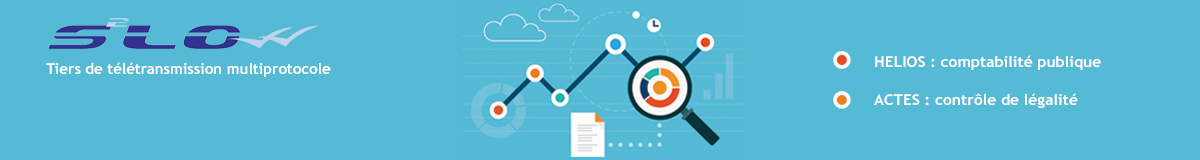
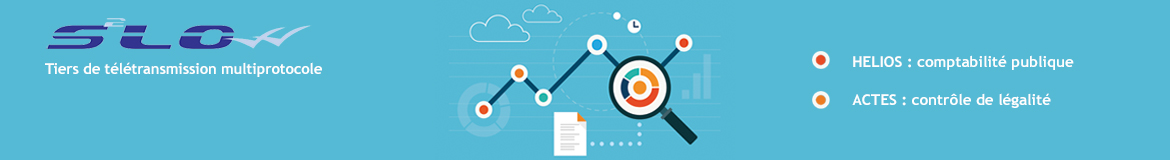
La locale LC_TIME est mise à fr_FR.utf-8 ET NE DOIT PAS ETRE MODIFIER DANS LE FICHIER LocalSettings.php
Tous les appels à strfrime sont decodé depuis l'UTF-8 vers l'ISO-8859-1.

Cela corrige un bug empechant que Actes et Helios fonctionne en même temps correctement au niveau de l'affichage des dates.

(+ modification du nouveau bandeau)

diff --git a/public.ssl/modules/etat_civil/index.php b/public.ssl/modules/etat_civil/index.php
@@ -280,8 +280,7 @@ $html .= "    </script>\n";
 $html .= "    <a href=\"#datepicker\" id=\"datepicker_min_submission_date_link\" class=\"datepicker_link\" onclick=\"javascript:obj_min_submission_date.toggleDatePicker(); return false;\">";
 
 if ($fmin_submission_date) {
-  setlocale(LC_TIME, "fr_FR.ISO-8859-15@euro");
-  $html .= strftime("%e %B %Y", Helpers :: ansiDateToTimestamp($fmin_submission_date));
+  $html .= utf8_decode(strftime("%e %B %Y", Helpers :: ansiDateToTimestamp($fmin_submission_date)));
 } else {
   $html .= "[&nbsp;Choisir une date&nbsp;]";
 }
@@ -300,8 +299,7 @@ $html .= "    </script>\n";
 $html .= "    <a href=\"#datepicker\" id=\"datepicker_min_ack_date_link\" class=\"datepicker_link\" onclick=\"javascript:obj_min_ack_date.toggleDatePicker(); return false;\">";
 
 if ($fmin_ack_date) {
-  setlocale(LC_TIME, "fr_FR.ISO-8859-15@euro");
-  $html .= strftime("%e %B %Y", Helpers :: ansiDateToTimestamp($fmin_ack_date));
+  $html .= utf8_decode(strftime("%e %B %Y", Helpers :: ansiDateToTimestamp($fmin_ack_date)));
 } else {
   $html .= "[&nbsp;Choisir une date&nbsp;]";
 }
@@ -324,8 +322,7 @@ $html .= "    </script>\n";
 $html .= "    <a href=\"#datepicker\" id=\"datepicker_max_submission_date_link\" class=\"datepicker_link\" onclick=\"javascript:obj_max_submission_date.toggleDatePicker(); return false;\">";
 
 if ($fmax_submission_date) {
-  setlocale(LC_TIME, "fr_FR.ISO-8859-15@euro");
-  $html .= strftime("%e %B %Y", Helpers :: ansiDateToTimestamp($fmax_submission_date));
+  $html .= utf8_decode(strftime("%e %B %Y", Helpers :: ansiDateToTimestamp($fmax_submission_date)));
 } else {
   $html .= "[&nbsp;Choisir une date&nbsp;]";
 }
@@ -343,8 +340,7 @@ $html .= "    </script>\n";
 $html .= "    <a href=\"#datepicker\" id=\"datepicker_max_ack_date_link\" class=\"datepicker_link\" onclick=\"javascript:obj_max_ack_date.toggleDatePicker(); return false;\">";
 
 if ($fmax_ack_date) {
-  setlocale(LC_TIME, "fr_FR.ISO-8859-15@euro");
-  $html .= strftime("%e %B %Y", Helpers :: ansiDateToTimestamp($fmax_ack_date));
+  $html .= utf8_decode(strftime("%e %B %Y", Helpers :: ansiDateToTimestamp($fmax_ack_date));
 } else {
   $html .= "[&nbsp;Choisir une date&nbsp;]";
 }

diff --git a/public.ssl/modules/actes/admin/actes_admin_window_edit.php b/public.ssl/modules/actes/admin/actes_admin_window_edit.php
@@ -157,8 +157,7 @@ $html .= "    </script>\n";
 $html .= "    <span class=\"form-control\"><a href=\"#datepicker\" id=\"datepicker_window_start_date_link\" class=\"datepicker_link\" onclick=\"javascript:obj_window_start_date.toggleDatePicker(); return false;\">";
 
 if ($start_date) {
-  setlocale(LC_TIME, "fr_FR.ISO-8859-15@euro");
-  $html .= strftime("%e %B %Y", Helpers::ansiDateToTimestamp($start_date));
+  $html .= utf8_decode(strftime("%e %B %Y", Helpers::ansiDateToTimestamp($start_date)));
 } else {
   $html .= "[&nbsp;Choisir une date&nbsp;]";
 }
@@ -194,8 +193,7 @@ $html .= "    </script>\n";
 $html .= "    <span class=\"form-control\"><a href=\"#datepicker\" id=\"datepicker_window_end_date_link\" class=\"datepicker_link\" onclick=\"javascript:obj_window_end_date.toggleDatePicker(); return false;\">";
 
 if ($end_date) {
-  setlocale(LC_TIME, "fr_FR.ISO-8859-15@euro");
-  $html .= strftime("%e %B %Y", Helpers::ansiDateToTimestamp($end_date));
+  $html .= utf8_decode(strftime("%e %B %Y", Helpers::ansiDateToTimestamp($end_date)));
 } else {
   $html .= "[&nbsp;Choisir une date&nbsp;]";
 }

diff --git a/public.ssl/modules/helios/admin/helios_admin_window_edit.php b/public.ssl/modules/helios/admin/helios_admin_window_edit.php
@@ -158,8 +158,7 @@ $html .= "    </script>\n";
 $html .= "    <span class=\"form-control\"><a href=\"#datepicker\" id=\"datepicker_window_start_date_link\" class=\"datepicker_link\" onclick=\"javascript:obj_window_start_date.toggleDatePicker(); return false;\">";
 
 if ($start_date) {
-  setlocale(LC_TIME, "fr_FR.ISO-8859-15@euro");
-  $html .= strftime("%e %B %Y", Helpers::ansiDateToTimestamp($start_date));
+  $html .= utf8_decode(strftime("%e %B %Y", Helpers::ansiDateToTimestamp($start_date)));
 } else {
   $html .= "[&nbsp;Choisir une date&nbsp;]";
 }
@@ -195,8 +194,7 @@ $html .= "    </script>\n";
 $html .= "    <span class=\"form-control\"><a href=\"#datepicker\" id=\"datepicker_window_end_date_link\" class=\"datepicker_link\" onclick=\"javascript:obj_window_end_date.toggleDatePicker(); return false;\">";
 
 if ($end_date) {
-  setlocale(LC_TIME, "fr_FR.ISO-8859-15@euro");
-  $html .= strftime("%e %B %Y", Helpers::ansiDateToTimestamp($end_date));
+  $html .= utf8_decode(strftime("%e %B %Y", Helpers::ansiDateToTimestamp($end_date)));
 } else {
   $html .= "[&nbsp;Choisir une date&nbsp;]";
 }

diff --git a/public.ssl/modules/helios/helios_retour.php b/public.ssl/modules/helios/helios_retour.php
@@ -134,8 +134,7 @@ $html .= "    </script>\n";
 $html .= "    <a href=\"#datepicker\" id=\"datepicker_min_submission_date_link\" class=\"datepicker_link\" onclick=\"javascript:obj_min_submission_date.toggleDatePicker(); return false;\">";
 
 if ($fmin_submission_date) {
-  setlocale(LC_TIME, "fr_FR.ISO-8859-15@euro");
-  $html .= strftime("%e %B %Y", Helpers :: ansiDateToTimestamp($fmin_submission_date));
+  $html .= utf8_decode(strftime("%e %B %Y", Helpers :: ansiDateToTimestamp($fmin_submission_date)));
 } else {
   $html .= "Choisir une date";
 }
@@ -153,8 +152,7 @@ $html .= "    </script>\n";
 $html .= "    <a href=\"#datepicker\" id=\"datepicker_max_submission_date_link\" class=\"datepicker_link\" onclick=\"javascript:obj_max_submission_date.toggleDatePicker(); return false;\">";
 
 if ($fmax_submission_date) {
-  setlocale(LC_TIME, "fr_FR.ISO-8859-15@euro");
-  $html .= strftime("%e %B %Y", Helpers :: ansiDateToTimestamp($fmax_submission_date));
+  $html .= utf8_decode(strftime("%e %B %Y", Helpers :: ansiDateToTimestamp($fmax_submission_date)));
 } else {
   $html .= "Choisir une date";
 }

diff --git a/template/LogsView.php b/template/LogsView.php
@@ -44,7 +44,7 @@
 				</script>
 				<a href="#datepicker" id="datepicker_date_debut_link" class="datepicker_link" onclick="javascript:obj_date_debut.toggleDatePicker(); return false;">
 					<?php if ($date_debut) :?>
-						<?php echo strftime("%e %B %Y", Helpers :: ansiDateToTimestamp($date_debut)); ?>
+						<?php echo utf8_decode(strftime("%e %B %Y", Helpers :: ansiDateToTimestamp($date_debut))); ?>
 					<?php else: ?>
 						Choisir une date
 					<?php endif; ?>
@@ -61,7 +61,7 @@
 				</script>
 				<a href="#datepicker" id="datepicker_date_fin_link" class="datepicker_link" onclick="javascript:obj_date_fin.toggleDatePicker(); return false;">
 					<?php if ($date_fin) :?>
-						<?php echo strftime("%e %B %Y", Helpers :: ansiDateToTimestamp($date_fin)); ?>
+						<?php echo utf8_decode(strftime("%e %B %Y", Helpers :: ansiDateToTimestamp($date_fin))); ?>
 					<?php else: ?>
 						Choisir une date
 					<?php endif; ?>

diff --git a/public.ssl/custom/templates/xhtml_mail_ssl.tpl.php b/public.ssl/custom/templates/xhtml_mail_ssl.tpl.php
@@ -12,10 +12,19 @@
         <?php echo $this->header ?>
     </head>
     <body>
+	<?php if (defined("NEW_BANNER")) : ?>
+
+	<div id="bandeau_s2low" class="container">
+		<a href='<?php echo WEBSITE ?>'>
+			<img src="<?php echo WEBSITE ?>/custom/images/bandeau_s2low.jpg"  />
+		</a>
+	</div>
+	<?php else: ?>
         <div id="header" class="navbar">
             <div id="home-header" class="container">
                 <img id="home-banner" src="/custom/images/pages_header_banner.jpg" alt="" usemap="#map" />
                 <map id="map" name="map"><area shape="rect" alt="Bandeau" coords="0,95,900,120" href="<?php echo WEBSITE_SSL ?>"/></map>
             </div>
         </div>
+	<?php endif; ?>
         <?php echo $this->body ?>

diff --git a/public.ssl/modules/mail/template/list.php b/public.ssl/modules/mail/template/list.php
@@ -40,7 +40,6 @@
                         <a href="#datepicker" id="datepicker_send_date_from_link" class="datepicker_link" onclick="javascript:obj_send_date_from.toggleDatePicker(); return false;">
                                 <?php 
                                 if ($SendDateFrom) {
-                                    //setlocale(LC_TIME, "fr_FR.ISO-8859-15@euro");
                                     echo utf8_decode(strftime("%e %B %Y", Helpers :: ansiDateToTimestamp($SendDateFrom)));
                                 } else {
                                     echo "Choisir une date";

diff --git a/lib/FancyDate.class.php b/lib/FancyDate.class.php
@@ -7,14 +7,14 @@ class FancyDate {
 		if (! $date){
 			return false;
 		}
-		return strftime("%e %B %Y", strtotime($date));
+		return utf8_decode(strftime("%e %B %Y", strtotime($date)));
 	}
 
 	public function getDateHeureFrancais($date){
 		if (! $date){
 			return false;
 		}
-		return strftime("%e %B %Y %H:%M:%S", strtotime($date));
+		return utf8_decode(strftime("%e %B %Y %H:%M:%S", strtotime($date)));
 	}
 	
 }
